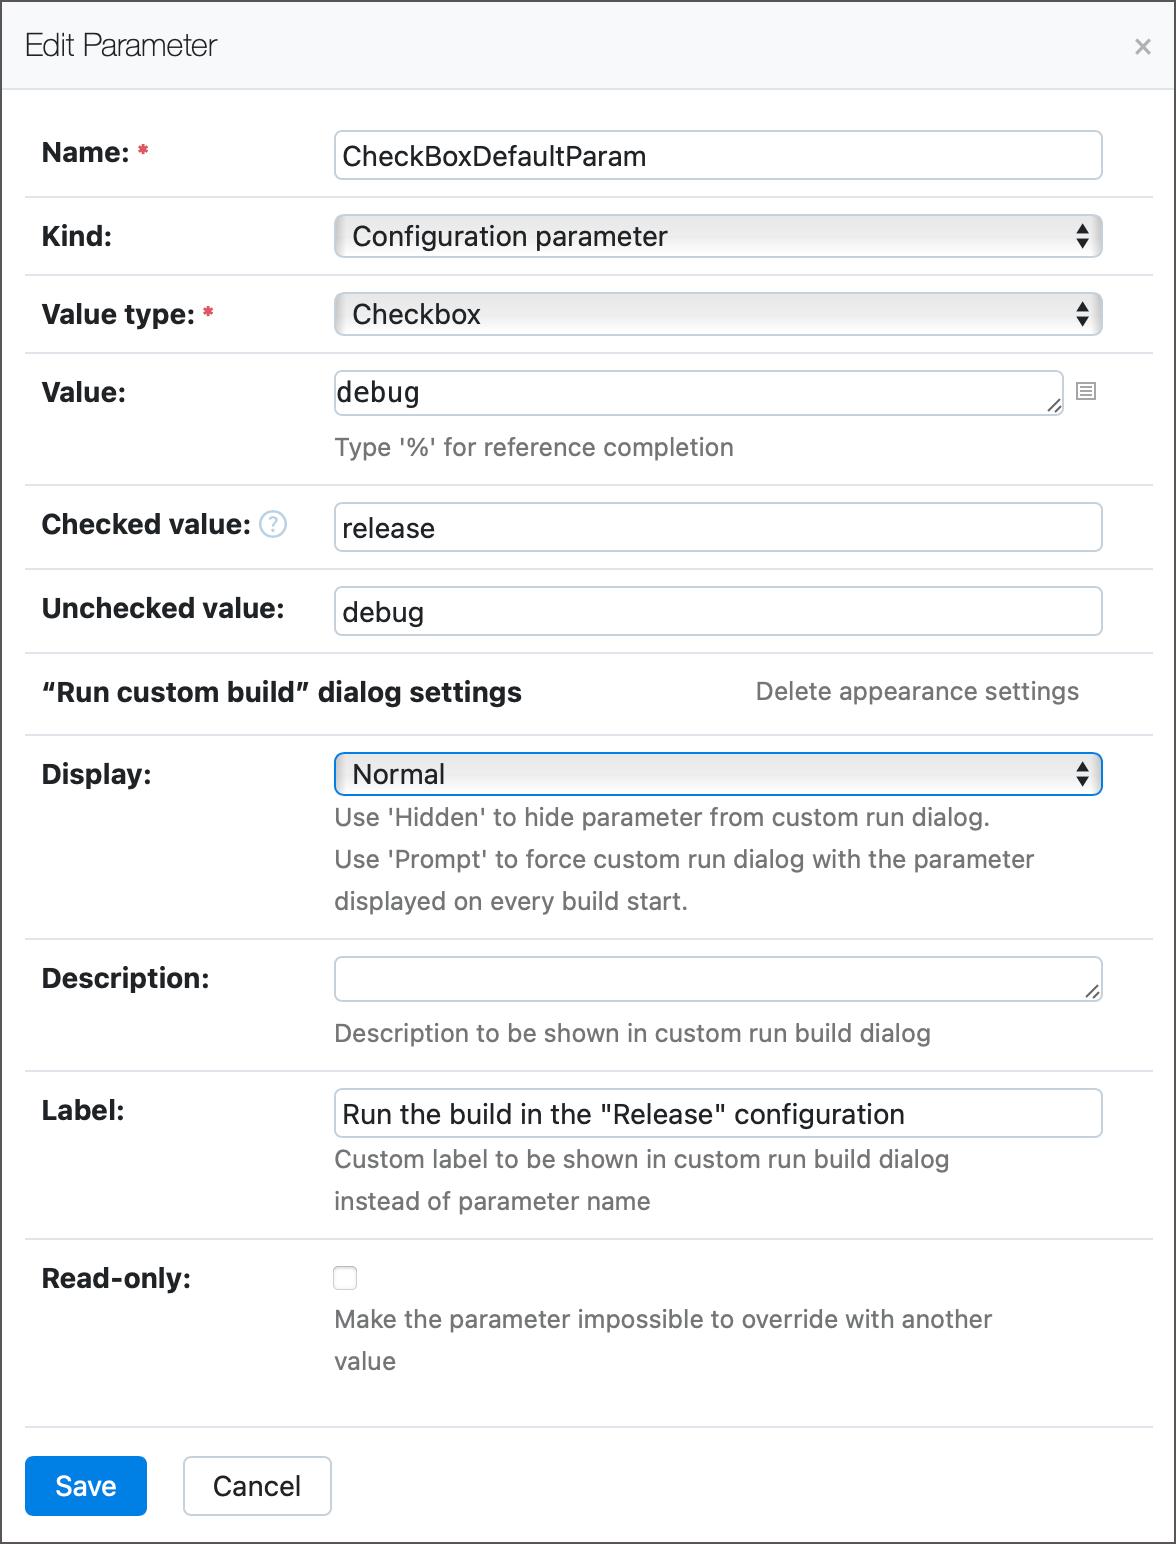
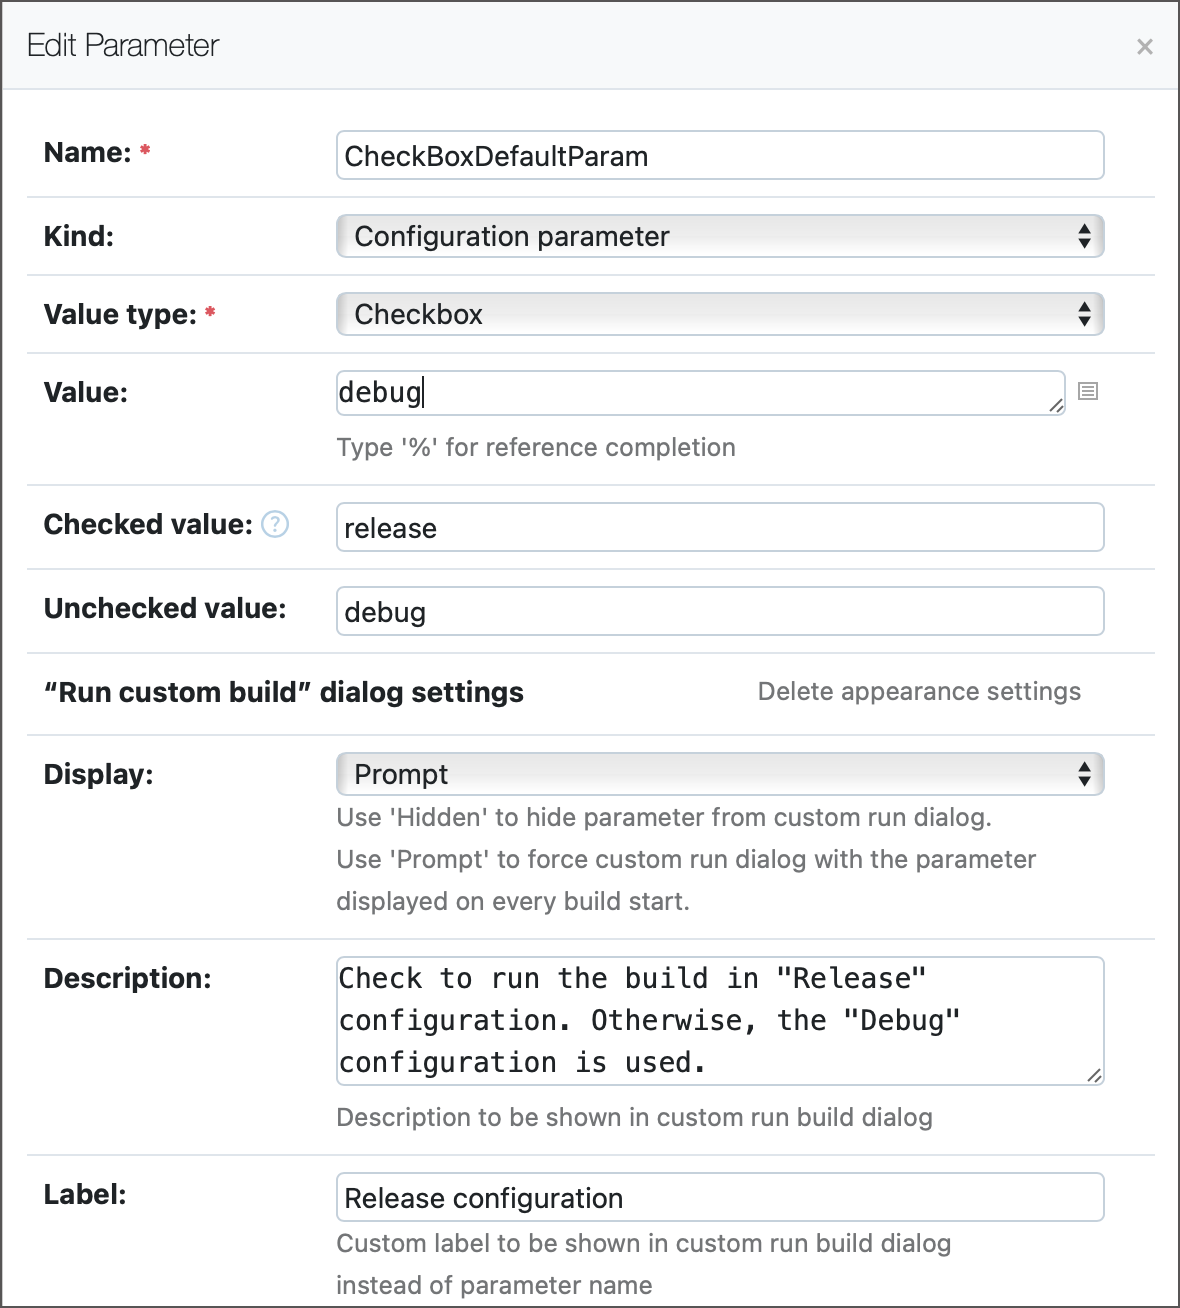
What's new updates

diff --git a/topics/what-s-new-in-teamcity.md b/topics/what-s-new-in-teamcity.md
@@ -1,90 +1,10 @@
 [//]: # (title: What's New in TeamCity 2024.03)
 [//]: # (auxiliary-id: What's New in TeamCity 2024.03;What's New in TeamCity)
 
-<!--OnPrem-->
 
-## Untrusted Builds
-{product="tc"}
+<include src="what-s-new-in-teamcity-tc-2024-03.md" include-id="2024-03-tc"/>
 
-With the [](pull-requests.md) feature added to your configurations you can assess new code before integrating it into the primary codebase. This feature comes with filtering options, enabling you to select whether to run builds from any contributors or solely those affiliated with your organization. The former choice poses a notable security risk, potentially exposing your TeamCity server to malicious code camouflaged within pull requests. Conversely, opting for the latter restricts collaboration opportunities with a broader audience.
-
-Version 2024.03 introduces a new setup that eliminates this trade-off between collaboration and security. The new **Untrusted Builds** group under project settings allows TeamCity to differentiate changes authored by trusted users from changes coming from an external source. New builds are triggered regardless of the changes' author, but builds that incorporate unverified changes will remain in queue until a designated reviewer (or a group of reviewers) marks them as safe to run.
-
-<img src="dk-untrustedbuilds-pending.png" width="706" alt="Pending approval"/>
-
-Learn more: [](untrusted-builds.md).
-
-
-## Alternative Fetch URLs
-{product="tc"}
-
-In TeamCity 2024.03, build agents can now fetch sources from a pre-configured repository proxy that mirrors your original Git repository. This capability is especially valuable for large distributed systems, mitigating connectivity issues for agents distant from the primary repository.
-
-Fetch URL mapping rules, defined in agent configuration files, offer granular control over the checkout process per agent. Additionally, wildcard and partial URL support in redirection rules enables the creation of universal, project-agnostic mapping patterns.
-
-Learn more: [Git VCS Root | General Settings](git.md#General+Settings).
-
-## Optional Artifact Dependencies
-{product="tc"}
-
-[](artifact-dependencies.md) allow your build configurations to download files produced by other configurations (or by previous builds of the same configuration). To create these dependencies, you need to specify [](artifact-dependencies.md#Artifacts+Rules) that define what files should be downloaded and where they should be stored.
-
-If TeamCity is unable to locate files matching these rules, a build fails with the "Unable to resolve artifact dependency" error. This behavior does not take into account more flexible setups where a downloaded artifact is not mandatory for a dependent build to run.
-
-Starting with version 2024.03, you can run a dependent build even if its artifact rules yield no files. To do so, start an artifact rule with the `?:` prefix.
-
-<img src="dk-relativeBuild-failed.png" width="706" alt="Optional dependency warning"/>
-
-Learn more: [Artifact Dependencies](artifact-dependencies.md#Prefix)
-
-
-## Miscellaneous Changes
-{product="tc"}
-
-* The [Open Terminal](install-and-start-teamcity-agents.md#Debug+Agents+Remotely) button now opens the terminal in the [checkout directory](build-checkout-directory.md). If invoked from the agent's overview page, the terminal still opens in the `$HOME` directory.
-
-
-
-<!--Cloud-->
-
-## Untrusted Builds
-{product="tcc"}
-
-With the [](pull-requests.md) feature added to your configurations you can assess new code before integrating it into the primary codebase. This feature comes with filtering options, enabling you to select whether to run builds from any contributors or solely those affiliated with your organization. The former choice poses a notable security risk, potentially exposing your TeamCity server to malicious code camouflaged within pull requests. Conversely, opting for the latter restricts collaboration opportunities with a broader audience.
-
-Version 2024.03 introduces a new setup that eliminates this trade-off between collaboration and security. The new **Untrusted Builds** group under project settings allows TeamCity to differentiate changes authored by trusted users from changes coming from an external source. New builds are triggered regardless of the changes' author, but builds that incorporate unverified changes will remain in queue until a designated reviewer (or a group of reviewers) marks them as safe to run.
-
-<img src="dk-untrustedbuilds-pending.png" width="706" alt="Pending approval"/>
-
-Learn more: [](untrusted-builds.md).
-
-
-## Optional Artifact Dependencies
-{product="tcc"}
-
-by other configurations (or by previous builds of the same configuration). To create these dependencies, you need to specify [](artifact-dependencies.md#Artifacts+Rules) that define what files should be downloaded and where they should be stored.
-
-If TeamCity is unable to locate files matching these rules, a build fails with the "Unable to resolve artifact dependency" error. This behavior does not take into account more flexible setups where a downloaded artifact is not mandatory for a dependent build to run.
-
-Starting with version 2024.03, you can run a dependent build even if its artifact rules yield no files. To do so, start an artifact rule with the `?:` prefix.
-
-<img src="dk-relativeBuild-failed.png" width="706" alt="Optional dependency warning"/>
-
-Learn more: [Artifact Dependencies](artifact-dependencies.md#Prefix)
-
-## Alternative Fetch URLs
-{product="tcc"}
-
-In TeamCity 2024.03, build agents can now fetch sources from a pre-configured repository proxy that mirrors your original Git repository. This capability is especially valuable for large distributed systems, mitigating connectivity issues for agents distant from the primary repository.
-
-Fetch URL mapping rules, defined in agent configuration files, offer granular control over the checkout process per agent. Additionally, wildcard and partial URL support in redirection rules enables the creation of universal, project-agnostic mapping patterns.
-
-Learn more: [Git VCS Root | General Settings](git.md#General+Settings).
-
-## Miscellaneous Changes
-{product="tcc"}
-
-* The [Open Terminal](install-and-start-teamcity-agents.md#Debug+Agents+Remotely) button now opens the terminal in the [checkout directory](build-checkout-directory.md). If invoked from the agent's overview page, the terminal still opens in the `$HOME` directory.
+<include src="what-s-new-in-teamcity-tcc-2024-03.md" include-id="2024-03-tcc"/>
 
 
 ## Upgrade Notes
@@ -92,19 +12,19 @@ Learn more: [Git VCS Root | General Settings](git.md#General+Settings).
 
 Before upgrading, we highly recommend reading about important changes in version <!--LINK!!!!!--> [2023.11 compared to 2023.05.4](upgrade-notes.md#Changes+from+2023.05.4+to+2023.11).
 
+
 ## Fixed Issues
 {product="tc"}
 
 See the [TeamCity 2024.03 release notes](teamcity-2024-03-release-notes.md) article for the summary of implemented features and fixed issues.
 
 
-
 ## Roadmap
 
 See the [TeamCity roadmap](https://www.jetbrains.com/teamcity/roadmap/#teamcity-roadmap) to learn about future updates.
 
-## Your Feedback Matters
 
+## Your Feedback Matters
 
 We place a high value on your feedback and encourage you to share your thoughts and suggestions. See this link for more information: [Feedback](feedback.md).
 

diff --git a/topics/what-s-new-in-teamcity-tc-2024-03.md b/topics/what-s-new-in-teamcity-tc-2024-03.md
@@ -1,0 +1,70 @@
+[//]: # (title: What's New in TeamCity On-Premises 2024.03)
+
+<chunk include-id="2024-03-tc">
+
+## Untrusted Builds
+{product="tc"}
+
+With the [](pull-requests.md) feature added to your configurations you can assess new code before integrating it into the primary codebase. This feature comes with filtering options, enabling you to select whether to run builds from any contributors or solely those affiliated with your organization. The former choice poses a notable security risk, potentially exposing your TeamCity server to malicious code camouflaged within pull requests. Conversely, opting for the latter restricts collaboration opportunities with a broader audience.
+
+Version 2024.03 introduces a new setup that eliminates this trade-off between collaboration and security. The new **Untrusted Builds** group under project settings allows TeamCity to differentiate changes authored by trusted users from changes coming from an external source. New builds are triggered regardless of the changes' author, but builds that incorporate unverified changes will remain in queue until a designated reviewer (or a group of reviewers) marks them as safe to run.
+
+<img src="dk-untrustedbuilds-pending.png" width="706" alt="Pending approval"/>
+
+Learn more: [](untrusted-builds.md).
+
+
+## New Parameter Dialog
+{product="tc"}
+
+In version 2024.03 we have moderately redesigned the **Add/Edit Parameter** dialog that you utilize when configuring [build parameters](configuring-build-parameters.md).
+
+<img src="dk-newparams-singleselect.png" width="460" alt="Single select parameter settings"/>
+
+In addition to other notable enhancements, the updated dialog allows you to select a new parameter type — **Remote secret**. Choose this type for parameters whose values should be retrieved from a remote source (for example, HashiCorp Vault).
+
+Learn more: [[hashicorp-vault.md](hashicorp-vault.md)](typed-parameters.md).
+
+
+## New Bundled Plugin: HashiCorp Vault
+{product="tc"}
+
+The [HashiCorp Vault Support](https://plugins.jetbrains.com/plugin/10011-hashicorp-vault-support) plugin is now an integral component of the standard TeamCity installation. This plugin allows you to store sensitive data in a remote source, and enables TeamCity parameters to seamlessly retrieve these values during build processes.
+
+<img src="dk-vaultConnection.png" width="460" alt="Vault connection settings"/>
+
+To set up the TeamCity integration with HashiCorp Vault, create a new Vault connection and use it to set up the **Remote secret** parameter in the [updated Add New Parameter dialog](#New+Parameter+Dialog).
+
+Learn more: [](hashicorp-vault.md).
+
+## Alternative Fetch URLs
+{product="tc"}
+
+In TeamCity 2024.03, build agents can now fetch sources from a pre-configured repository proxy that mirrors your original Git repository. This capability is especially valuable for large distributed systems, mitigating connectivity issues for agents distant from the primary repository.
+
+Fetch URL mapping rules, defined in agent configuration files, offer granular control over the checkout process per agent. Additionally, wildcard and partial URL support in redirection rules enables the creation of universal, project-agnostic mapping patterns.
+
+Learn more: [Git VCS Root | General Settings](git.md#General+Settings).
+
+## Optional Artifact Dependencies
+{product="tc"}
+
+[](artifact-dependencies.md) allow your build configurations to download files produced by other configurations (or by previous builds of the same configuration). To create these dependencies, you need to specify [](artifact-dependencies.md#Artifacts+Rules) that define what files should be downloaded and where they should be stored.
+
+If TeamCity is unable to locate files matching these rules, a build fails with the "Unable to resolve artifact dependency" error. This behavior does not take into account more flexible setups where a downloaded artifact is not mandatory for a dependent build to run.
+
+Starting with version 2024.03, you can run a dependent build even if its artifact rules yield no files. To do so, start an artifact rule with the `?:` prefix.
+
+<img src="dk-relativeBuild-failed.png" width="706" alt="Optional dependency warning"/>
+
+Learn more: [Artifact Dependencies](artifact-dependencies.md#Prefix)
+
+
+## Miscellaneous Changes
+{product="tc"}
+
+* The [Open Terminal](install-and-start-teamcity-agents.md#Debug+Agents+Remotely) button now opens the terminal in the [checkout directory](build-checkout-directory.md). If invoked from the agent's overview page, the terminal still opens in the `$HOME` directory.
+
+
+
+</chunk>

diff --git a/topics/what-s-new-in-teamcity-tcc-2024-03.md b/topics/what-s-new-in-teamcity-tcc-2024-03.md
@@ -1,0 +1,72 @@
+[//]: # (title: What's New in TeamCity Cloud 2024.03)
+
+
+<chunk include-id="2024-03-tcc">
+
+
+## Untrusted Builds
+{product="tcc"}
+
+With the [](pull-requests.md) feature added to your configurations you can assess new code before integrating it into the primary codebase. This feature comes with filtering options, enabling you to select whether to run builds from any contributors or solely those affiliated with your organization. The former choice poses a notable security risk, potentially exposing your TeamCity server to malicious code camouflaged within pull requests. Conversely, opting for the latter restricts collaboration opportunities with a broader audience.
+
+Version 2024.03 introduces a new setup that eliminates this trade-off between collaboration and security. The new **Untrusted Builds** group under project settings allows TeamCity to differentiate changes authored by trusted users from changes coming from an external source. New builds are triggered regardless of the changes' author, but builds that incorporate unverified changes will remain in queue until a designated reviewer (or a group of reviewers) marks them as safe to run.
+
+<img src="dk-untrustedbuilds-pending.png" width="706" alt="Pending approval"/>
+
+Learn more: [](untrusted-builds.md).
+
+
+## Optional Artifact Dependencies
+{product="tcc"}
+
+by other configurations (or by previous builds of the same configuration). To create these dependencies, you need to specify [](artifact-dependencies.md#Artifacts+Rules) that define what files should be downloaded and where they should be stored.
+
+If TeamCity is unable to locate files matching these rules, a build fails with the "Unable to resolve artifact dependency" error. This behavior does not take into account more flexible setups where a downloaded artifact is not mandatory for a dependent build to run.
+
+Starting with version 2024.03, you can run a dependent build even if its artifact rules yield no files. To do so, start an artifact rule with the `?:` prefix.
+
+<img src="dk-relativeBuild-failed.png" width="706" alt="Optional dependency warning"/>
+
+Learn more: [Artifact Dependencies](artifact-dependencies.md#Prefix)
+
+## New Parameter Dialog
+{product="tcc"}
+
+In version 2024.03 we have moderately redesigned the **Add/Edit Parameter** dialog that you utilize when configuring [build parameters](configuring-build-parameters.md).
+
+<img src="dk-newparams-singleselect.png" width="460" alt="Single select parameter settings"/>
+
+In addition to other notable enhancements, the updated dialog allows you to select a new parameter type — **Remote secret**. Choose this type for parameters whose values should be retrieved from a remote source (for example, HashiCorp Vault).
+
+Learn more: [](typed-parameters.md).
+
+
+## New Bundled Plugin: HashiCorp Vault
+{product="tcc"}
+
+The [HashiCorp Vault Support](https://plugins.jetbrains.com/plugin/10011-hashicorp-vault-support) plugin is now an integral component of the standard TeamCity installation. This plugin allows you to store sensitive data in a remote source, and enables TeamCity parameters to seamlessly retrieve these values during build processes.
+
+<img src="dk-vaultConnection.png" width="460" alt="Vault connection settings"/>
+
+To set up the TeamCity integration with HashiCorp Vault, create a new Vault connection and use it to set up the **Remote secret** parameter in the [updated Add New Parameter dialog](#New+Parameter+Dialog).
+
+Learn more: [](hashicorp-vault.md).
+
+## Alternative Fetch URLs
+{product="tcc"}
+
+In TeamCity 2024.03, build agents can now fetch sources from a pre-configured repository proxy that mirrors your original Git repository. This capability is especially valuable for large distributed systems, mitigating connectivity issues for agents distant from the primary repository.
+
+Fetch URL mapping rules, defined in agent configuration files, offer granular control over the checkout process per agent. Additionally, wildcard and partial URL support in redirection rules enables the creation of universal, project-agnostic mapping patterns.
+
+Learn more: [Git VCS Root | General Settings](git.md#General+Settings).
+
+## Miscellaneous Changes
+{product="tcc"}
+
+* The [Open Terminal](install-and-start-teamcity-agents.md#Debug+Agents+Remotely) button now opens the terminal in the [checkout directory](build-checkout-directory.md). If invoked from the agent's overview page, the terminal still opens in the `$HOME` directory.
+
+
+</chunk>
+
+

diff --git a/topics/typed-parameters.md b/topics/typed-parameters.md
@@ -183,6 +183,8 @@ You can modify the name and path to the properties file via the `teamcity.defaul
 
 This parameter shows a checkbox in the **Run Custom Build** dialog. The parameter can be toggled between `release` (checked) and `debug` (unchecked) values.
 
+<img src="dk-checkbox-param.png" width="706" alt="Checkbox parameter"/>
+
 <tabs>
 
 <tab title="TeamCity UI">
@@ -194,11 +196,14 @@ This parameter shows a checkbox in the **Run Custom Build** dialog. The paramete
 <tab title="Kotlin DSL">
 
 ```Kotlin
-object MyConfig : BuildType({
+object Test : BuildType({
+   name = "Test"
    params {
       checkbox("CheckBoxDefaultParam",
-              "debug", // default value
-              label = """Run the build in the "Release" configuration""",
+              "debug", // Initial value
+              label = "Release configuration",
+              description = """Check to run the build in "Release" configuration. Otherwise, the "Debug" configuration is used.""",
+              display = ParameterDisplay.PROMPT,
               checked = "release",
               unchecked = "debug")
    }
@@ -213,11 +218,11 @@ object MyConfig : BuildType({
 
 ```JSON
 {
-    "name": "CheckBoxDefaultParam",
-    "value": "debug",
-    "type": {
-        "rawValue": "checkbox label='Run the build in the \"Release\" configuration' uncheckedValue='debug' checkedValue='release' display='prompt'"
-    }
+  "name": "CheckBoxDefaultParam",
+  "value": "debug",
+  "type": {
+    "rawValue": "checkbox description='Check to run the build in \"Release\" configuration. Otherwise, the \"Debug\" configuration is used.' label='Release configuration' uncheckedValue='debug' checkedValue='release' display='prompt'"
+  }
 }
 ```
 
@@ -225,7 +230,7 @@ object MyConfig : BuildType({
 
 ```XML
 <property name="CheckBoxDefaultParam" value="debug">
-    <type rawValue="checkbox label='Run the build in the &quot;Release&quot; configuration' uncheckedValue='debug' checkedValue='release' display='prompt'"/>
+    <type rawValue="checkbox description='Check to run the build in &quot;Release&quot; configuration. Otherwise, the &quot;Debug&quot; configuration is used.' label='Release configuration' uncheckedValue='debug' checkedValue='release' display='prompt'"/>
 </property>
 ```
 
@@ -236,7 +241,7 @@ object MyConfig : BuildType({
 
 ### RegEx Parameter
 
-This parameter accepts only string values that match the given RegEx expression. TeamCity does not allow to run a build if an invalid value is entered.
+This parameter accepts only string values that match the given regular expression. TeamCity does not allow running a new build if an invalid value is entered.
 
 <img src="dk-regexparam-overview.png" width="706" alt="RegEx Parameter"/>
 
@@ -303,7 +308,7 @@ This parameter defines multiple values but allows users to select only one value
 
 <tab title="TeamCity UI">
 
-<img src="dk-newparams-singleselect.png" width="406" alt="Single select parameter settings"/>
+<img src="dk-newparams-singleselect.png" width="460" alt="Single select parameter settings"/>
 
 </tab>
 
@@ -367,7 +372,7 @@ If multiple items are selected, the parameter joins their values using the speci
 
 <tab title="TeamCity UI">
 
-<img src="dk-multiselect-uisettings.png" width="406" alt="Multiselect parameter UI settings"/>
+<img src="dk-multiselect-uisettings.png" width="460" alt="Multiselect parameter UI settings"/>
 
 </tab>
 

diff --git a/topics/hashicorp-vault.md b/topics/hashicorp-vault.md
@@ -2,7 +2,9 @@
 
 [HashiCorp Vault](https://www.vaultproject.io) is a secure storage for your tokens, passwords, certificates, and encryption keys. Instead of storing sensitive information inside TeamCity parameters and tokens, you can keep it in Vault and set up TeamCity to securely access this data from Vault engines (KV/KV2, AWS, Google Cloud, and others).
 
+<!--
 To set up a TeamCity-Vault integration, download the official [Vault plugin](https://plugins.jetbrains.com/plugin/10011-hashicorp-vault-support) and install it as described in the [](installing-additional-plugins.md) article.
+-->
 
 ## Common Information
 
